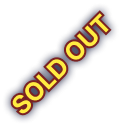
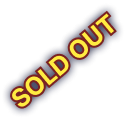
lavoro 17/04/2025

Changed region(s): [[0.0738, 0.0756, 0.9344, 0.9328]]

diff --git a/core/src/codes/sorgente/Lobby/InputManager.java b/core/src/codes/sorgente/Lobby/InputManager.java
@@ -92,7 +92,7 @@ public class InputManager implements InputProcessor {
     // metodo per rilevare il click della tastiera
     @Override public boolean keyDown(int keycode) {
         // click tasto esc per il logout
-        if (keycode == Input.Keys.ESCAPE && (!listSecondPages.contains(page) && !open22 && !open23 && !open24)) {
+        if (keycode == Input.Keys.ESCAPE && (!listSecondPages.contains(page) && !open22 && !open23 && !open24 && !open25)) {
             open23 = true;
             secondScreen = true;
             return true;
@@ -119,7 +119,7 @@ public class InputManager implements InputProcessor {
         // ......................... //
         // CAMBIO PAGINE DALLA LOBBY //
         // ......................... //
-        if (!listSecondPages.contains(page) && !open22 && !open23 && !open24) {
+        if (!listSecondPages.contains(page) && !open22 && !open23 && !open24 && !open25) {
             // for-each per iterare i vari range e controllare i cambi pagina
             for (Map.Entry<Integer, HitBox> entry : hitBoxes.entrySet()) {
                 HitBox hb = entry.getValue();
@@ -196,18 +196,18 @@ public class InputManager implements InputProcessor {
             secondScreen = open24 = false;
         }
 
-        // YES logout => back to Authentication Page
-        if ((secondScreen&&open23) && (screenX>=281 && screenX<=481) && (screenY>=417 && screenY<=497)) {
-            secondScreen = open23 = false;
-            LobbyManager.soundtrack.stop();
-            LobbyManager.game.setScreen(new LoginSignupManager(LobbyManager.game));
-        }
-
         // PLAY warning => play classic game
         if ((secondScreen&&open24) && (screenX>=519 && screenX<=719) && (screenY>=417 && screenY<=497)) {
             secondScreen = open24 = false;
             LobbyManager.soundtrack.stop();
             LobbyManager.game.setScreen(new ClassicGame(LobbyManager.game, selectedSp)); // avvio classic game
+        }
+
+        // YES logout => back to the Authentication Page
+        if ((secondScreen&&open23) && (screenX>=281 && screenX<=481) && (screenY>=417 && screenY<=497)) {
+            secondScreen = open23 = false;
+            LobbyManager.soundtrack.stop();
+            LobbyManager.game.setScreen(new LoginSignupManager(LobbyManager.game));
         }
 
         // ........................ //
@@ -228,7 +228,7 @@ public class InputManager implements InputProcessor {
         // CLICK NELLE PAGINE //
         // .................. //
 
-        // pagina 19 'avatar'
+        // apertura pagina 19 'avatar'
         if (page == 20 && (screenX>=453 && screenX<=537) && (screenY>=108 && screenY<=188)) {
             page = 19;
         }
@@ -376,7 +376,7 @@ public class InputManager implements InputProcessor {
         }
 
         // acquisti nel negozio
-        if (page == 17) {
+        if (page == 17 && !secondScreen) {
             // rimozione prodotto
             if ((screenX >= 344 && screenX <= 364 && screenY >= 385 && screenY <= 405) && item1>0) { // item 1
                 item1--;
@@ -420,11 +420,11 @@ public class InputManager implements InputProcessor {
                 item4++;
                 currentCredit -= 200;
             }
-            if ((screenX >= 506 && screenX <= 526 && screenY >= 538 && screenY <= 558) && (currentCredit-20000>=0 && item5<1)) { // item 5
+            if ((screenX >= 506 && screenX <= 526 && screenY >= 538 && screenY <= 558) && (currentCredit-20000>=0 && item5<1 && !((boolean) DataUserManager.getProgress("state_product_5")))) { // item 5
                 item5++;
                 currentCredit -= 20000;
             }
-            if ((screenX >= 752 && screenX <= 772 && screenY >= 538 && screenY <= 558) && (currentCredit-30000>=0 && item6<1)) { // item 6
+            if ((screenX >= 752 && screenX <= 772 && screenY >= 538 && screenY <= 558) && (currentCredit-30000>=0 && item6<1 && !((boolean) DataUserManager.getProgress("state_product_6")))) { // item 6
                 item6++;
                 currentCredit -= 30000;
             }
@@ -439,22 +439,41 @@ public class InputManager implements InputProcessor {
             System.out.println(screenX + " " + screenY);
             // pulsante per confermare l'acquisto
             if ((screenX >= 503 && screenX <= 717 && screenY >= 580 && screenY <= 624) && finalPrize>0) {
-                // salvataggio crediti rimasti
-                DataUserManager.setProgress("credits", currentCredit);
-
-                // aggiornamento numero carte
-                DataUserManager.setProgress("num_gold_heart", ((int)DataUserManager.getProgress("num_gold_heart")+item1));
-                DataUserManager.setProgress("num_shield", ((int)DataUserManager.getProgress("num_shield")+item2));
-                DataUserManager.setProgress("num_super_laser", ((int)DataUserManager.getProgress("num_super_laser")+item3));
-                DataUserManager.setProgress("num_double_points", ((int)DataUserManager.getProgress("num_double_points")+item4));
-
-                item1=item2=item3=item4=item5=item6=0; // reset item 1-6
-                finalPrize=0; // reset final prize
+                secondScreen=open25=true;
             }
 
             // prezzo finale
             finalPrize = ((int) DataUserManager.getProgress("credits")) - currentCredit;
         }
+
+        // YES => conferma acquisto
+        if ((secondScreen&&open25) && (screenX>=281 && screenX<=481) && (screenY>=417 && screenY<=497)) {
+            // salvataggio crediti rimasti
+            DataUserManager.setProgress("credits", currentCredit);
+
+            // aggiornamento numero carte
+            DataUserManager.setProgress("num_gold_heart", ((int)DataUserManager.getProgress("num_gold_heart")+item1));
+            DataUserManager.setProgress("num_shield", ((int)DataUserManager.getProgress("num_shield")+item2));
+            DataUserManager.setProgress("num_super_laser", ((int)DataUserManager.getProgress("num_super_laser")+item3));
+            DataUserManager.setProgress("num_double_points", ((int)DataUserManager.getProgress("num_double_points")+item4));
+
+            // aggiornamento stato prodotto 5
+            if (item5 == 1) DataUserManager.setProgress("state_product_5", true);
+            // aggiornamento stato prodotto 6
+            if (item6 == 1) DataUserManager.setProgress("state_product_6", true);
+
+            item1=item2=item3=item4=item5=item6=0; // reset item 1-6
+            finalPrize=0; // reset final prize
+
+            // chiusura schermata in sovra impressione
+            secondScreen=open25=false;
+        }
+
+        // NO => annulla acquisto
+        if ((secondScreen&&open25) && (screenX>=519 && screenX<=719) && (screenY>=417 && screenY<=497)) {
+            secondScreen=open25=false;
+        }
+
         return true;
     }
 

diff --git a/core/src/codes/sorgente/Lobby/UIManager.java b/core/src/codes/sorgente/Lobby/UIManager.java
@@ -26,7 +26,7 @@ import java.util.Locale;
 import java.util.Set;
 
 public class UIManager implements ResourceLoader {    // dichiarazione icone difficoltà, spunta completamento, premi RTG
-    private Texture tickImg, diffCG1, diffCG2, diffCG3, diffSB1, diffSB2, diffSB3, claimPrize, progressRTG, notifyCompletedRTG;
+    private Texture tickImg, diffCG1, diffCG2, diffCG3, diffSB1, diffSB2, diffSB3, claimPrize, progressRTG, notifyCompletedRTG, txtSoldOut;
 
     // textureRegione per definire l'area di completamento della task corrente in RTG
     private TextureRegion progressBarRegion;
@@ -41,7 +41,7 @@ public class UIManager implements ResourceLoader {    // dichiarazione icone dif
     public static RTG[] RTGs;
 
     // immagini in sovra impressione
-    private Texture closeGame, softInfos, warning;
+    private Texture closeGame, softInfos, warning, confirmBuy;
 
     private BitmapFont fontBlue15, fontBlue20, fontBoldBlue20, fontBoldDarkRed25,fontWhite20, fontBoldWhite15, fontBoldWhite20, fontBoldWhite25, fontItalicBoldWhite15;
     //private BitmapFont fontRed20;
@@ -81,8 +81,7 @@ public class UIManager implements ResourceLoader {    // dichiarazione icone dif
 
         // caricamento risorse
         createMissions();
-        loadLobbyImages(); // schermate lobby
-        loadImages(); // altre immagini
+        loadImages(); // immagini lobby
         loadFont(); // font
         createAvatars(); // creazione oggetti avatar
 
@@ -115,9 +114,27 @@ public class UIManager implements ResourceLoader {    // dichiarazione icone dif
         }
     }
 
-    // metodo per caricare le immagini delle pagine di Accesso e Registrazione
+    // metodo per caricare le immagini della Lobby
     @Override
     public void loadImages() {
+        // popolamento mappa lobby
+        for (int i = 0; i < 25; i++) mapLobby.put(i, new Texture("lobby_screens/lobby (" + i + ").png"));
+        // popolamento mappa avatar
+        for (int i = 0; i <= 19; i++) mapAvatarsImgs.put(i, new Texture("images/avatars/av (" + i + ").png"));
+
+        // "pulsante" raccolta premio RTG
+        Texture img_special = new Texture("images/rect_claim_reward_eng.png");
+        mapLobby.put(35, img_special);
+
+        // immagini in sovra impressione
+        closeGame = new Texture("secondary_screens/lobby_close_game_eng.png");
+        softInfos = new Texture("secondary_screens/lobby_software_info_eng.png");
+        warning = new Texture("secondary_screens/lobby_warning_eng.png");
+        confirmBuy = new Texture("secondary_screens/lobby_confirm_buy_eng.png");
+
+        // testo "SOLD OUT" per il marketplace
+        txtSoldOut = new Texture("images/sold_item_txt.png");
+
         // icona difficoltà classic game
         diffCG1 = new Texture("images/diff1_classicgame.png");
         diffCG2 = new Texture("images/diff2_classicgame.png");
@@ -147,6 +164,7 @@ public class UIManager implements ResourceLoader {    // dichiarazione icone dif
         progressRTG = new Texture("images/progress.png");
         progressBarRegion = new TextureRegion(progressRTG);
 
+        // array per gli avatar
         avatars = new Texture[20];
         avatarsCovered = new Texture[20];
 
@@ -162,24 +180,8 @@ public class UIManager implements ResourceLoader {    // dichiarazione icone dif
             avatarsCovered[i] = new Texture("images/avatars/av (" + i + ") mini covered.png");
         }
 
+        // quadrato avatar selezionato
         selectedAvatar = new Texture("images/avatars/selected_avatar.png");
-    }
-
-    // metodo per caricare le immagini della Lobby
-    public void loadLobbyImages(){
-        // popolamento mappa lobby
-        for (int i = 0; i < 25; i++) mapLobby.put(i, new Texture("lobby_screens/lobby (" + i + ").png"));
-        // popolamento mappa avatar
-        for (int i = 0; i <= 19; i++) mapAvatarsImgs.put(i, new Texture("images/avatars/av (" + i + ").png"));
-
-        // "pulsante" raccolta premio
-        Texture img_special = new Texture("images/rect_claim_reward_eng.png");
-        mapLobby.put(35, img_special);
-
-        // immagini in sovra impressione
-        closeGame = new Texture("secondary_screens/lobby_close_game_eng.png");
-        softInfos = new Texture("secondary_screens/lobby_software_info_eng.png");
-        warning = new Texture("secondary_screens/lobby_warning_eng.png");
     }
 
     // **************** //
@@ -470,6 +472,11 @@ public class UIManager implements ResourceLoader {    // dichiarazione icone dif
 
                 // prezzo finale
                 fontBoldWhite25.draw(screen, formatter.format(InputManager.finalPrize), 530, 108); // prezzo d'acquisto finale
+
+                // testi "sold out" per specificare che i prodotti non sono disponibili
+                if ((boolean) DataUserManager.getProgress("state_product_5")) screen.draw(txtSoldOut, 435, 160);
+                if ((boolean) DataUserManager.getProgress("state_product_6")) screen.draw(txtSoldOut, 680, 160);
+
                 break;
 
             // pagina 'profile info'
@@ -560,6 +567,11 @@ public class UIManager implements ResourceLoader {    // dichiarazione icone dif
             if (InputManager.open23) screen.draw(closeGame, 250, 175);
             else if (InputManager.open22) screen.draw(softInfos, 250, 175);
             else if (InputManager.open24) screen.draw(warning, 250, 175);
+            else if (InputManager.open25) {
+                screen.draw(confirmBuy, 250, 175);
+                // testo prezzo totale
+                fontBoldWhite25.draw(screen, formatter.format(InputManager.finalPrize), 390, 347);
+            }
         }
     }
 

diff --git a/core/src/codes/sorgente/LogInSignUp/AuthAlgorithms.java b/core/src/codes/sorgente/LogInSignUp/AuthAlgorithms.java
@@ -198,6 +198,8 @@ public class AuthAlgorithms implements InputProcessor {
         gameProgresses.put("won_SB", 0);
         gameProgresses.put("cons_won_SB", 0);
         gameProgresses.put("points", 0);
+        gameProgresses.put("state_product_5", false);
+        gameProgresses.put("state_product_6", false);
 
         // scrittura del JSON
         Path filePath2 = Paths.get("data/" + nicknameInput + "/", "gameProgresses.json");
